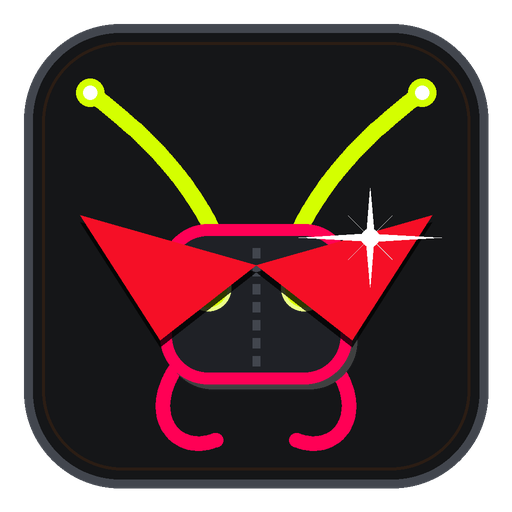
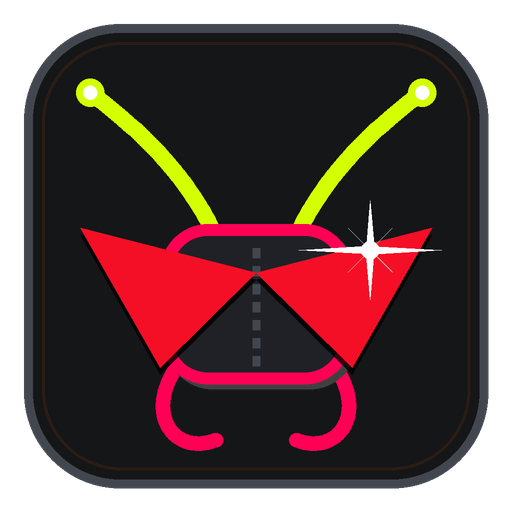
fix(assets): descer oculos no icone do simbiotyka (closes #51)

Changed region(s): [[0.1562, 0.375, 0.8438, 0.7188]]

diff --git a/scripts/gerar-recursos-android.py b/scripts/gerar-recursos-android.py
@@ -130,8 +130,8 @@ def render_lacraia(with_kamina=False) -> Image.Image:
 
     # 7. Óculos do Kamina
     if with_kamina:
-        left_lens = [(512, 530), (160, 430), (320, 680)]
-        right_lens = [(512, 530), (864, 430), (704, 680)]
+        left_lens = [(512, 545), (160, 455), (320, 735)]
+        right_lens = [(512, 545), (864, 455), (704, 735)]
 
         shades_shadow = Image.new("RGBA", (size, size), (0, 0, 0, 0))
         d_sh = ImageDraw.Draw(shades_shadow)
@@ -145,7 +145,7 @@ def render_lacraia(with_kamina=False) -> Image.Image:
         d_sl.polygon(left_lens, fill=(245, 15, 38, 255))
         d_sl.polygon(right_lens, fill=(245, 15, 38, 255))
 
-        draw_anime_star_gleam(d_sl, cx=740, cy=475, radius=110)
+        draw_anime_star_gleam(d_sl, cx=740, cy=500, radius=110)
 
         im = Image.alpha_composite(im, shades_layer)
 
